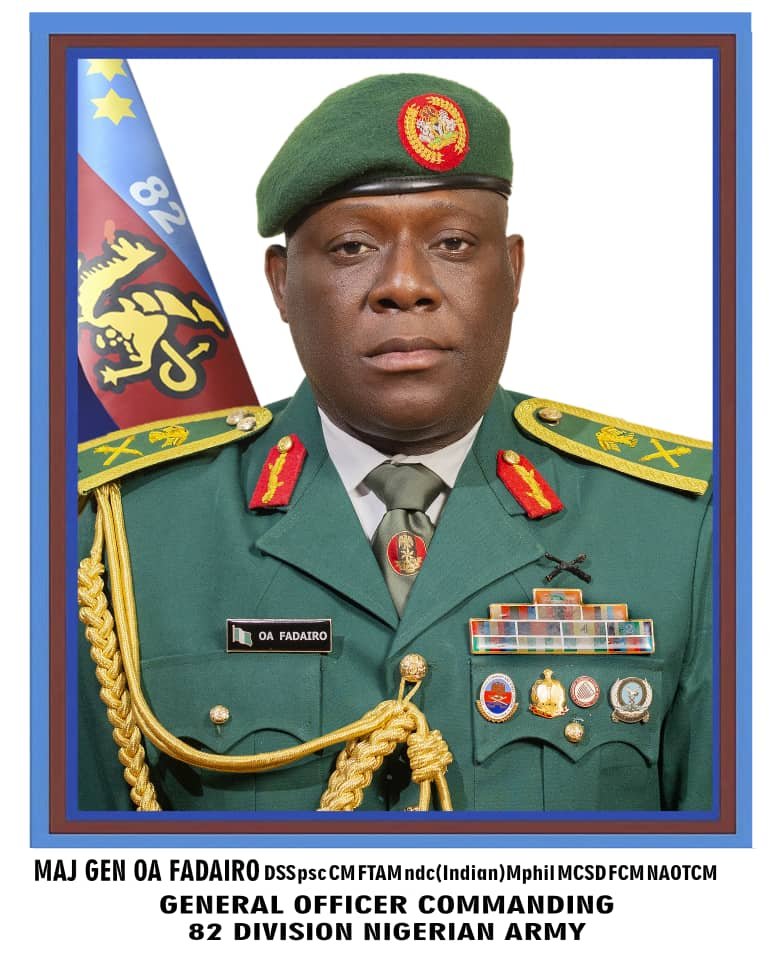
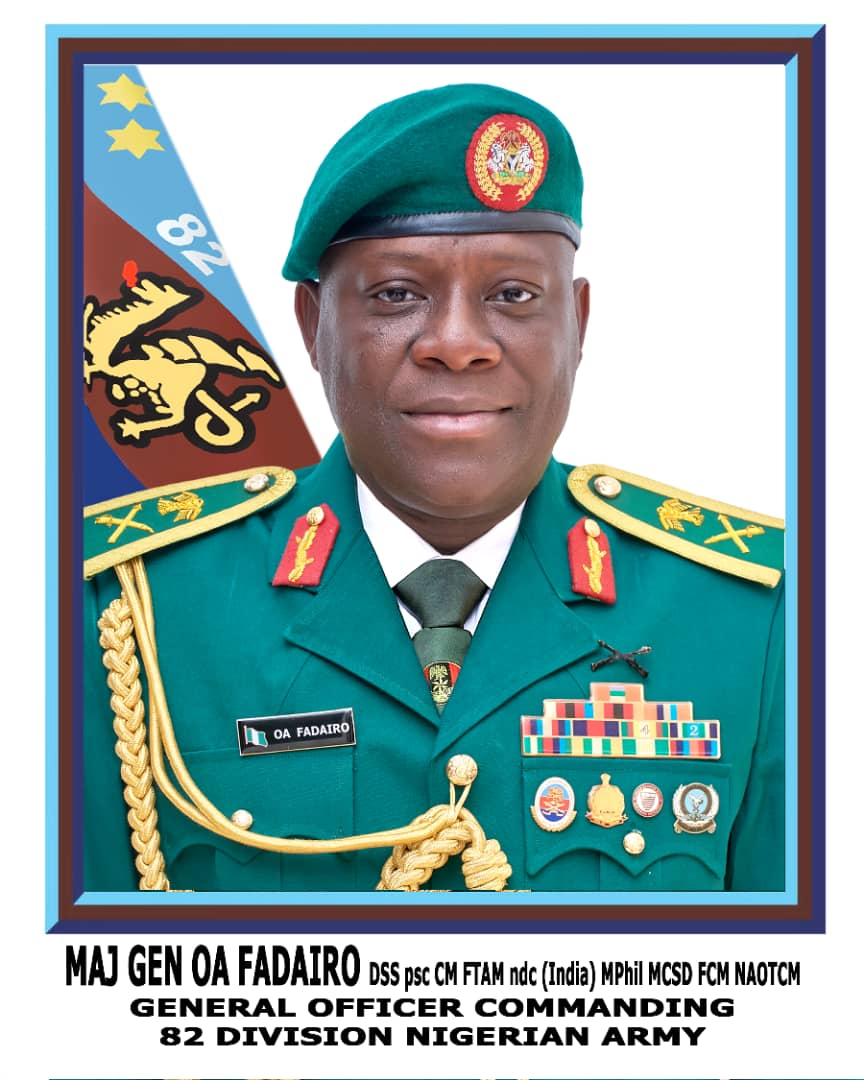
updated current GOC image and service number

diff --git a/script.js b/script.js
@@ -341,7 +341,7 @@ const commanders = [
     },
     {
         id: 40,
-        name: "MAJ GEN OA FADAIRO (N/9907)",
+        name: "MAJ GEN OA FADAIRO (N/10169)",
         image: "images/fadairo.jpg",
         yearOfService: "5-Nov-2025 – Date",
         decorations: "DSS psc CM FTAM ndc(Indian) MPhil MCSD FCM NAOTCM",
